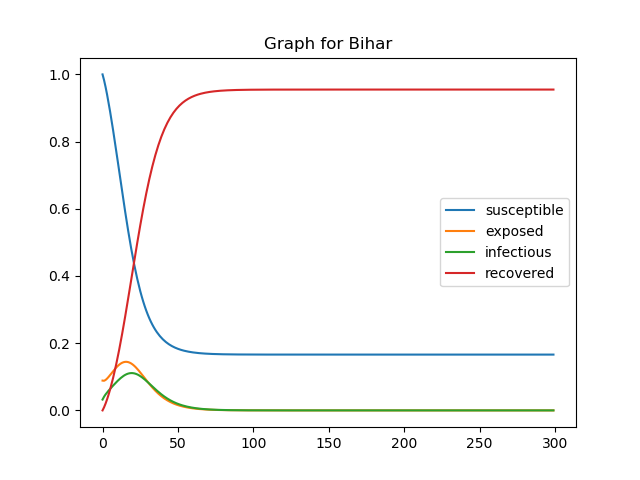
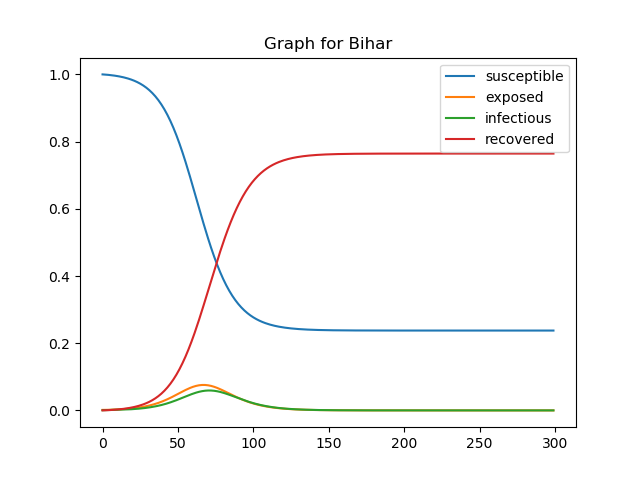
change in N

diff --git a/vectorsolver.py b/vectorsolver.py
@@ -6,9 +6,9 @@ import matplotlib.pyplot as plt
 # t = 100
 
 # Population of states
-N = np.array([124, 237, 29, 85])
+N = np.array([124, 237, 29, 85]) * 10*6
 
-S0 = np.array([124, 237, 29, 85])
+S0 = np.array([124, 237, 29, 85]) * 10*6
 S0 = S0/N
 E0 = np.array([11, 31, 5, 24])
 E0 = E0/N
@@ -25,6 +25,7 @@ z = 5
 gamma = 1/d
 delta = 1/z
 beta = AvgR0 * gamma
+print(beta)
 beta = np.diag(beta)
 # def calculate_beta(R_value):
 #     betaval = R_value * gamma
@@ -45,6 +46,7 @@ def derivative_fun(all_vectors, t0):
     E = all_vectors[4:8]
     I = all_vectors[8:12]
     R = all_vectors[12:]
+    # import pdb; pdb.set_trace()
     # beta = calculate_beta(R)
     # print(beta)
     dsdt = (-1) * np.matmul(beta, S*I)
